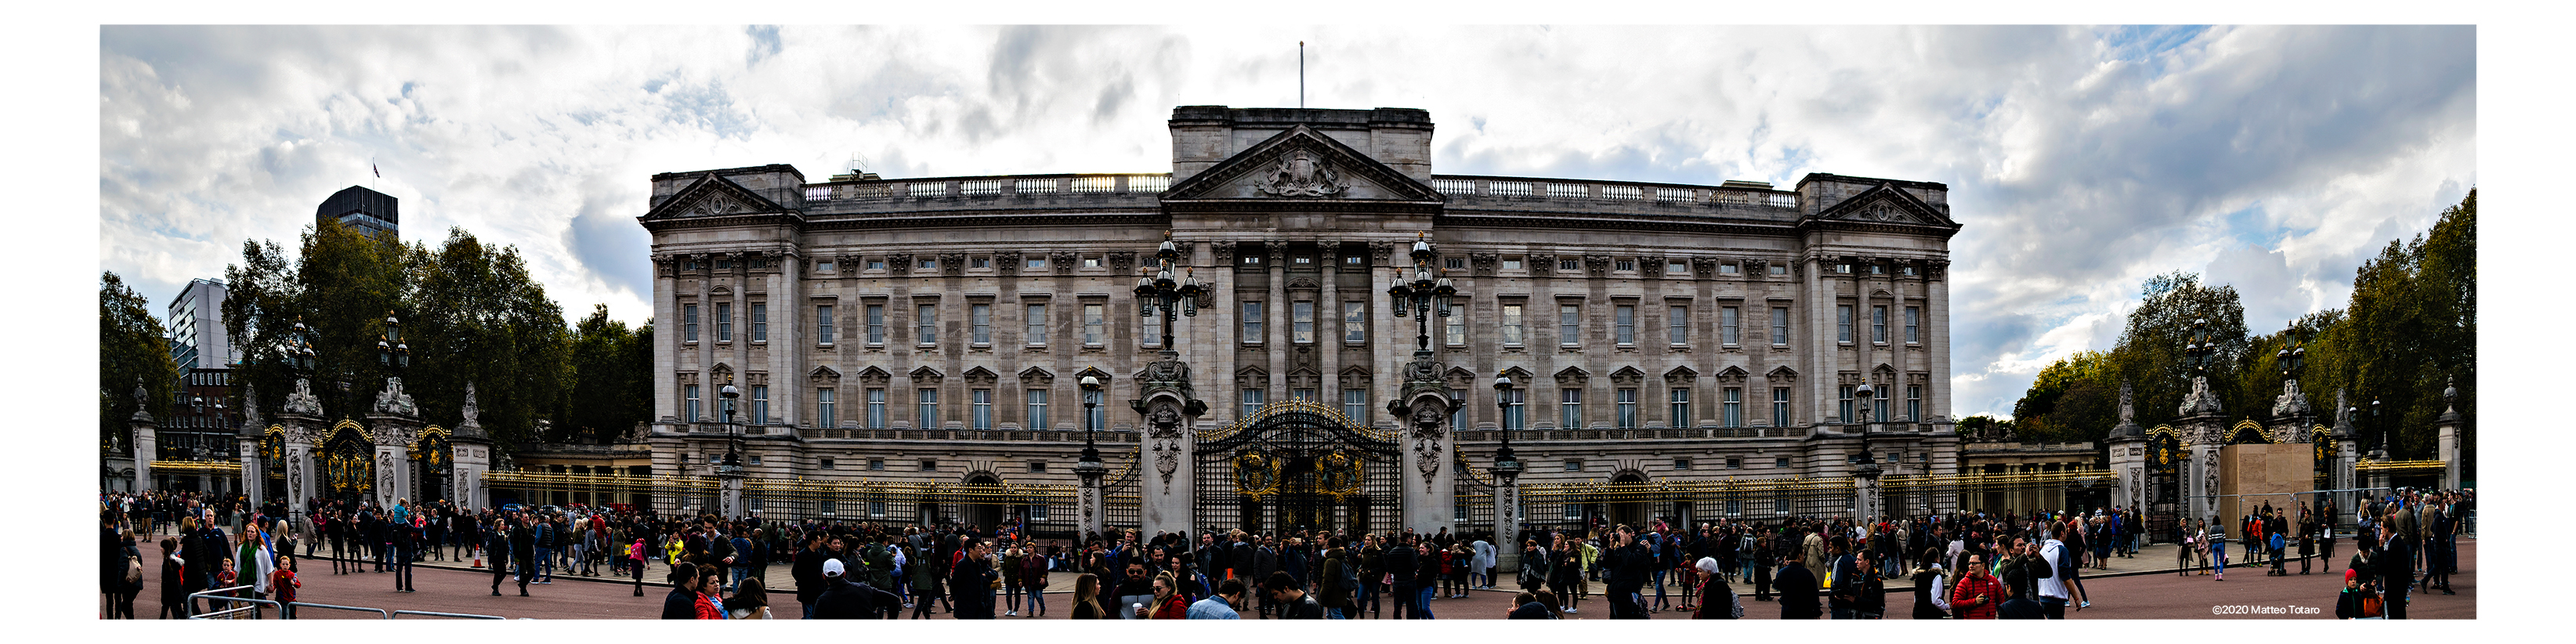
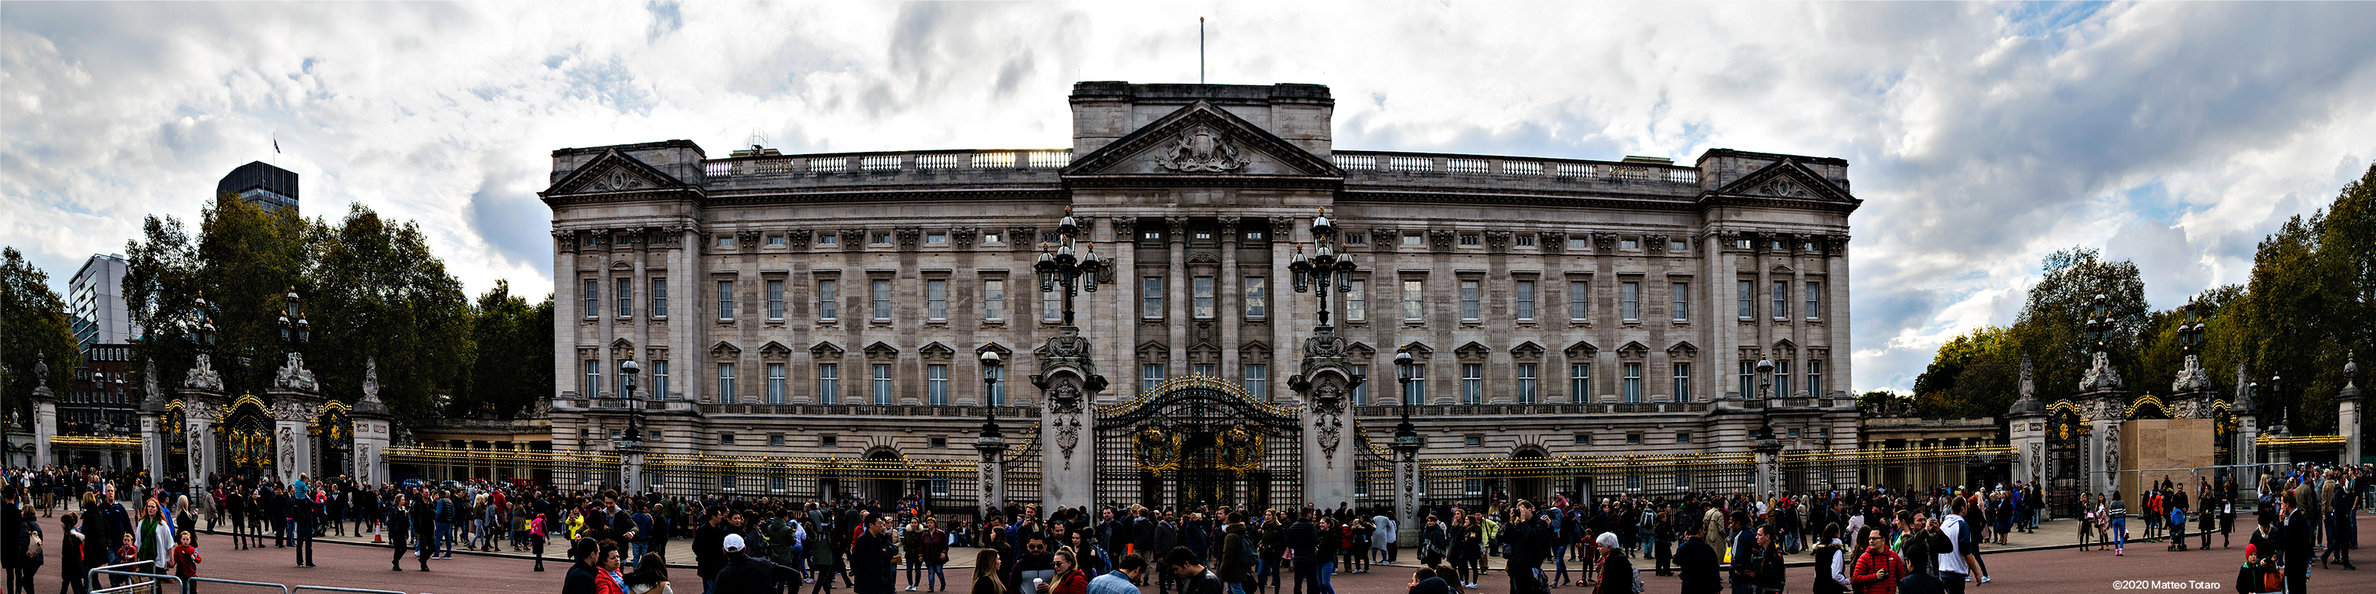
london updates

diff --git a/content/posts/london.it.md b/content/posts/london.it.md
@@ -36,8 +36,7 @@ share:
                       alt="Big Ben"></a>
         </figure>
         {{< typeit tag=h3 >}} Londra, UK, 2016 {{< /typeit >}}
-        <p>Sono stato nel Regno Unito circa 4 anni fa e durante il mio erasmus a Cardiff ho avuto modo di visitare anche Londra.
-        </p>
+        <p>Sono stato nel Regno Unito circa 4 anni fa e durante l'erasmus a Cardiff ho avuto modo di visitare anche Londra.</p>
       <div class="row">
             <div class="scroll-view">
               <div class="scroll-doc">
@@ -165,6 +164,7 @@ share:
                  <code>Verso Piccadilly Circus</code>
               </figcaption>
         </figure>
+        <p>Le tre seguenti foto sono delle panoramiche scattate rispettivamente a Camden Town, alla Tower of London e nel buco della Regina.</p>
         <figure>
           <a class="lightgallery" 
                   href=/images/uploads/london/5HD.jpg
@@ -193,6 +193,22 @@ share:
                       alt="Tower of London"></a>
               <figcaption class=image-caption style="text-align:center">
                   <code>Tower of London</code>
+              </figcaption>
+        </figure>
+        <p> On one hand, the first two panos are 4 different shots merged togheter; dall'altra l'ultima foto è letteralmente un macello e la foto ad <strong>alta</strong> qualità la si può trovare qui <a href="https://drive.google.com/file/d/1sIa2JbRFzuH99andlX49HDeVrF9cCUz8/view?usp=sharing"><i>qui</i></a>.</p>
+        <figure>
+          <a class="lightgallery" 
+                  href=/images/uploads/london/2.jpg
+                  title="Buckingham Palace"
+                  data-thumbnail=/images/uploads/london/2.jpg
+                  data-sub-html="Buckingham Palace">
+                  <img class="lazyload blur-up"
+                      src=/svg/loading/normal.svg
+                      data-src=/images/uploads/london/2.jpg
+                      data-sizes=auto
+                      alt="Buckingham Palace"></a>
+              <figcaption class=image-caption style="text-align:center">
+                  <code>Buckingham Palace</code>
               </figcaption>
         </figure>
     </div>

diff --git a/content/posts/london.en.md b/content/posts/london.en.md
@@ -165,6 +165,7 @@ share:
                  <code>Towards Piccadilly Circus</code>
               </figcaption>
         </figure>
+        <p>The following three photos are three panoramic views respectively from Camden Town, the Tower of London and the bathroom of the Queen.</p>
         <figure>
           <a class="lightgallery" 
                   href=/images/uploads/london/5HD.jpg
@@ -193,6 +194,22 @@ share:
                       alt="Tower of London"></a>
               <figcaption class=image-caption style="text-align:center">
                   <code>Tower of London</code>
+              </figcaption>
+        </figure>
+        <p> On one hand, the first two panos are 4 different shots merged togheter; on the other hand the last pic is quite a mess and the <strong>full</strong> quality project can be found <a href="https://drive.google.com/file/d/1sIa2JbRFzuH99andlX49HDeVrF9cCUz8/view?usp=sharing"><i>here</i></a>.</p>
+        <figure>
+          <a class="lightgallery" 
+                  href=/images/uploads/london/2.jpg
+                  title="Buckingham Palace"
+                  data-thumbnail=/images/uploads/london/2.jpg
+                  data-sub-html="Buckingham Palace">
+                  <img class="lazyload blur-up"
+                      src=/svg/loading/normal.svg
+                      data-src=/images/uploads/london/2.jpg
+                      data-sizes=auto
+                      alt="Buckingham Palace"></a>
+              <figcaption class=image-caption style="text-align:center">
+                  <code>Buckingham Palace</code>
               </figcaption>
         </figure>
     </div>
